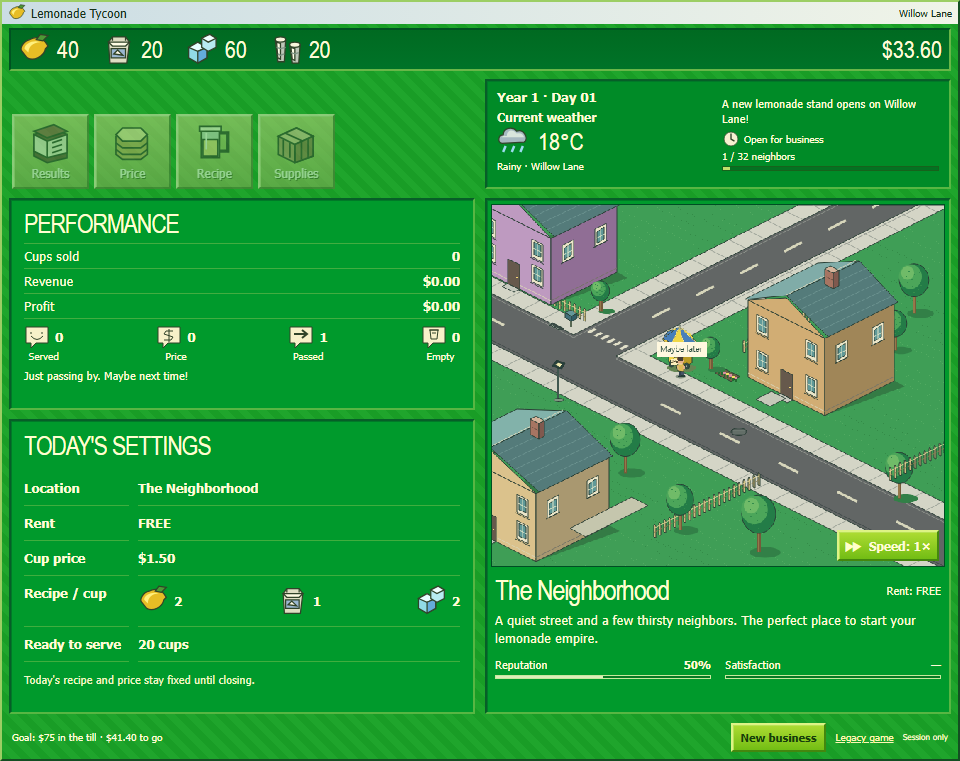
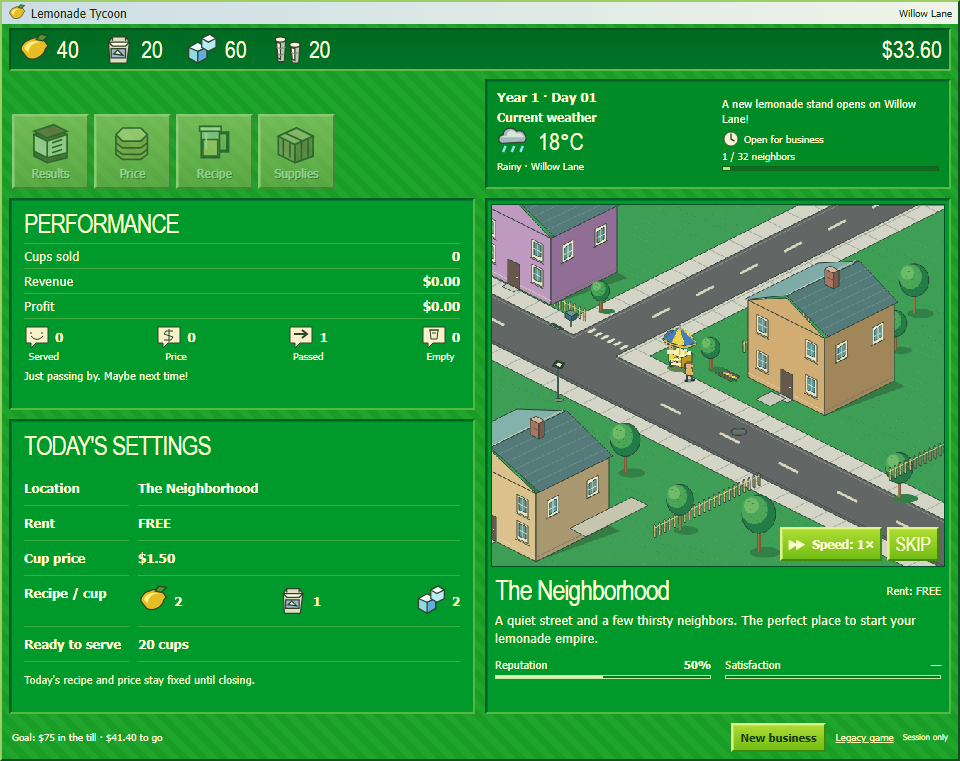
fix: address M2 audit gaps and add deterministic day skip (#104)

Changed region(s): [[0.8125, 0.6951, 0.9688, 0.7556], [0.6875, 0.4231, 0.75, 0.5138]]

diff --git a/docs/research/m2-reference-board.html b/docs/research/m2-reference-board.html
@@ -3,7 +3,7 @@
 <style>
 :root{font-family:system-ui,sans-serif;color:#e9f0dc;background:#183622}*{box-sizing:border-box}body{margin:0;padding:24px;max-width:1600px;margin-inline:auto}h1{font-size:26px;margin:0 0 8px}p{line-height:1.6}a{color:#f0d960}header{border-bottom:1px solid #61835d;padding-bottom:14px}nav{display:flex;gap:18px;flex-wrap:wrap;align-items:center;margin:18px 0}select,button{font:inherit;padding:8px;background:#e3e9ce;color:#1f3928;border:1px solid #88aa65}button:focus-visible,select:focus-visible{outline:3px solid #ffe26e}label{display:flex;align-items:center;gap:8px}.comparison{display:grid;grid-template-columns:1fr 1fr;gap:20px}.pane{min-width:0;background:#102919;padding:12px;border:1px solid #6c855d}.pane h2{font-size:17px;margin:0 0 10px}.frame{position:relative;width:100%}.frame img{display:block;width:100%;height:auto;image-rendering:pixelated}.bounds{position:absolute;inset:0;pointer-events:none}.box{position:absolute;border:2px solid #ffe24d;background:#ffd84d15;color:#fff;font:bold 10px monospace}.box span{background:#172616;padding:2px}.note{min-height:70px;color:#e3edb8}.small{font-size:12px;color:#b8c7ac}.facts{display:grid;grid-template-columns:repeat(3,1fr);gap:12px;margin:18px 0}.facts div{background:#254d30;padding:12px}.facts strong{display:block;color:#ffde63;font-size:23px}.sources{line-height:1.9}details{padding:12px;border:1px solid #628559;margin-top:15px}[hidden]{display:none!important}@media(max-width:800px){body{padding:12px}.comparison{grid-template-columns:1fr}.facts{grid-template-columns:1fr}}
 </style></head><body>
-<header><h1>M2 · 원작과 구현 화면 비교</h1><p>Windows 영어판 1.1.5 스크린샷을 기준으로, M2 구현과 구조를 비교합니다. <a href="m2-original-study.md">기본 조사</a> · <a href="m2-selling-weather-study.md">영업·날씨 후속 조사</a> · <a href="https://github.com/Gamez0/lemonade-tycoon/milestone/2">M2 마일스톤</a></p><p class="small">2026-09-29 · 이미지 12장 직접 확인. 플레이 영상은 발견했지만 재생 검증하지 못했습니다. 원작 실행·애니메이션 타이밍 측정 결과가 아닙니다.</p></header>
+<header><h1>M2 · 원작과 구현 화면 비교</h1><p>Windows 영어판 1.1.5 스크린샷을 기준으로, M2 구현과 구조를 비교합니다. <a href="m2-original-study.md">기본 조사</a> · <a href="m2-selling-weather-study.md">영업·날씨 후속 조사</a> · <a href="m2-acceptance-audit.md">M2 목표 재검토</a> · <a href="https://github.com/Gamez0/lemonade-tycoon/milestone/2">M2 마일스톤</a></p><p class="small">2026-09-29 · 이미지 12장 직접 확인. 플레이 영상은 발견했지만 재생 검증하지 못했습니다. 원작 실행·애니메이션 타이밍 측정 결과가 아닙니다.</p></header>
 <nav><label>원작 화면 <select id="screen"></select></label><label>구현 화면 <select id="current-screen"></select></label><label><input id="overlay" type="checkbox">영역 표시</label><button id="previous">이전</button><button id="next">다음</button></nav>
 <div class="comparison">
 <section class="pane"><h2 id="reference-title"></h2><div class="frame"><img id="reference" alt="선택한 원작 PC 게임 화면"><div class="bounds" id="bounds"></div></div><p id="reference-note" class="note"></p><a id="source" target="_blank" rel="noreferrer">원본 이미지 열기</a><p class="small" id="image-error" hidden>외부 이미지가 로드되지 않았습니다. 원본 링크를 이용해 주세요.</p></section>
@@ -17,7 +17,7 @@
 const screens=[
 [6,'R06 · 레시피','큰 그림·숫자·화살표로 조절합니다. 여러 준비 폼을 동시에 보여주지 않으며, 오른쪽 동네는 계속 유지됩니다.'],
 [7,'R07 · 재료 구매','재료별 하위 탭과 묶음별 수량, BUY/CANCEL이 보입니다. 실제 클릭 전후 상태 변화는 별도로 검증해야 합니다.'],
-[8,'R08 · 영업','왼쪽 Performance/Today\'s Settings, 흐려진 준비 탭, 장면 위의 배속/건너뛰기. 장소 설명은 아래에 남아 있습니다.'],
+[8,'R08 · 영업','왼쪽 Performance/Today\'s Settings, 흐려진 준비 탭, 장면 안의 배속/건너뛰기. 장소 설명은 아래에 남아 있습니다.'],
 [9,'R09 · 전날 결과','장부와 함께 만족도·놓친 판매·재료 손실을 보여줍니다. 하위 아이콘 탭으로 결과 종류를 구분합니다.'],
 [2,'R02 · 손익 장부','전날 결과 화면과 별도의 장부 화면입니다. 우측 주택가의 건물·카트·사람 크기도 함께 비교합니다.'],
 [3,'R03 · 공원 장소 선택','썸네일/화살표/임대 버튼. 장소 소개와 평가 막대가 오른쪽 장면 아래에 고정됩니다.'],
@@ -32,7 +32,7 @@ const captures=[
 ['m2-recipe.png','M2 · 레시피','컵 단위 조절과 고정 위치의 Start day. 준비 화면을 하나씩 표시합니다.'],
 ['m2-price.png','M2 · 가격','가격만 편집합니다. 원작 Marketing 전체 기능을 구현한 것은 아닙니다.'],
 ['m2-supplies.png','M2 · 구매 초안','BUY 전에는 재고/잔액이 바뀌지 않고 CANCEL로 전체 초안을 버립니다.'],
-['m2-selling.png','M2 · 영업','실적과 오늘 설정, 준비 잠금, 장면 옆 배속. 순차 손님 동작은 독자 구현입니다.'],
+['m2-selling.png','M2 · 영업','실적과 오늘 설정, 준비 잠금, 장면 안 배속/SKIP. 순차 손님 동작은 독자 구현입니다.'],
 ['m2-results.png','M2 · 하루 결과','매출, 사용 원가, 구매 지출, 현금 증감과 놓친 판매를 구분합니다.'],
 ['m2-ledger.png','M2 · 누적 장부','완료된 3일 합계. 다음 날 준비 중에도 다시 볼 수 있습니다.'],
 ['m2-rainy-selling.png','M2 · 비 오는 영업','날씨 표시와 장면 톤을 확인한 실제 렌더입니다. 초기 시드 1000을 브라우저 검증에서만 지정했으며 배포 기본값은 바꾸지 않았습니다.'],

diff --git a/src/reboot.ts b/src/reboot.ts
@@ -13,7 +13,7 @@ import {
     stepCustomer,
     unitCost,
 } from "./game/simulation/game";
-import type { State, Stock } from "./game/simulation/game";
+import type { CustomerEvent, State, Stock } from "./game/simulation/game";
 import { StreetScene } from "./game/presentation/street-scene";
 import { icon } from "./game/presentation/icons";
 import { markup } from "./game/presentation/layout";
@@ -76,28 +76,29 @@ for (const [i] of bundleSizes.entries()) {
     row.innerHTML = `<span id="bundle-label-${i}"></span><strong id="bundle-price-${i}"></strong><div class="spinner"><button data-bundle="${i}" data-delta="-1">−</button><output id="bundle-count-${i}">0</output><button data-bundle="${i}" data-delta="1">+</button></div>`;
     element("supplies").append(row);
 }
+function advanceCustomer(): CustomerEvent {
+    const step = stepCustomer(state);
+    state = step.state;
+    reactions[step.event.kind]++;
+    if (state.phase === "results") {
+        history.push(state);
+        currentPage = "results";
+        reportPage = "daily";
+    }
+    lastFeedback =
+        step.event.kind === "bought"
+            ? `Sold! Satisfaction: ${step.event.satisfaction}%.`
+            : step.event.kind === "price"
+              ? "Too expensive! A neighbor walked away."
+              : step.event.kind === "sold-out"
+                ? "Sold out! A customer left empty-handed."
+                : "Just passing by. Maybe next time!";
+    return step.event;
+}
 const scene = new StreetScene({
     state: () => state,
     profile: () => stepCustomer(state).event.profile,
-    arrive: () => {
-        const step = stepCustomer(state);
-        state = step.state;
-        reactions[step.event.kind]++;
-        if (state.phase === "results") {
-            history.push(state);
-            currentPage = "results";
-            reportPage = "daily";
-        }
-        lastFeedback =
-            step.event.kind === "bought"
-                ? `Sold! Satisfaction: ${step.event.satisfaction}%.`
-                : step.event.kind === "price"
-                  ? "Too expensive! A neighbor walked away."
-                  : step.event.kind === "sold-out"
-                    ? "Sold out! A customer left empty-handed."
-                    : "Just passing by. Maybe next time!";
-        return step.event;
-    },
+    arrive: advanceCustomer,
     changed: render,
 });
 new Phaser.Game({
@@ -217,6 +218,14 @@ element("speed").addEventListener("click", () => {
     scene.setSpeed(fast ? 4 : 1);
     text("speed-label", `Speed: ${fast ? 4 : 1}×`);
 });
+element("skip").addEventListener("click", () => {
+    if (state.phase !== "selling") return;
+    // The pending visit may already be committed. Resume from the actual state,
+    // not the animation's profile/elapsed time, to avoid charging it twice.
+    scene.resetDay();
+    while (state.phase === "selling") advanceCustomer();
+    act(() => state);
+});
 element("next").addEventListener("click", () => {
     if (scene.finishing) return;
     act(() => {
@@ -331,7 +340,8 @@ function render(): void {
     element("day-actions").hidden = !prep;
     element("next").hidden = !closed;
     element<HTMLButtonElement>("next").disabled = scene.finishing;
-    element("speed").hidden = !selling && !scene.finishing;
+    element("scene-controls").hidden = !selling && !scene.finishing;
+    element<HTMLButtonElement>("skip").disabled = !selling;
     element("closed-sign").hidden = !closed || scene.finishing;
     const satisfaction = prep
         ? history.length

diff --git a/src/game/presentation/layout.ts b/src/game/presentation/layout.ts
@@ -40,7 +40,7 @@ export const markup = `
   </section>
  </section>
  <section class="world-column" aria-label="Willow Lane stand">
-  <div class="world-frame"><div class="scene-window"><div id="game-container"></div><button id="speed" class="scene-speed" hidden><span aria-hidden="true">▶▶</span> <span id="speed-label">Speed: 1×</span></button><span id="closed-sign" hidden>DAY COMPLETE</span></div>
+  <div class="world-frame"><div class="scene-window"><div id="game-container"></div><div id="scene-controls" hidden><button id="speed" class="scene-speed"><span aria-hidden="true">▶▶</span> <span id="speed-label">Speed: 1×</span></button><button id="skip" class="scene-skip" title="Finish the remaining visits now">SKIP</button></div><span id="closed-sign" hidden>DAY COMPLETE</span></div>
    <div class="location-heading"><h2>The Neighborhood</h2><span class="rent-tag">Rent: FREE</span></div>
    <p class="location-description">A quiet street and a few thirsty neighbors. The perfect place to start your lemonade empire.</p>
    <div class="location-ratings"><div><div class="rating-line"><label for="reputation-meter">Reputation</label><strong id="reputation"></strong></div><meter id="reputation-meter" min="0" max="100" value="50">50%</meter></div><div><div class="rating-line"><label for="satisfaction-meter">Satisfaction</label><strong id="location-satisfaction"></strong></div><meter id="satisfaction-meter" min="0" max="100" value="0">No buyers yet</meter></div></div>

diff --git a/src/game/presentation/style.css b/src/game/presentation/style.css
@@ -495,10 +495,15 @@ canvas {
     display: block;
     image-rendering: pixelated;
 }
-.scene-speed {
+#scene-controls {
     position: absolute;
     right: 6px;
     bottom: 6px;
+    display: flex;
+    gap: 5px;
+}
+.scene-speed,
+.scene-skip {
     padding: 4px 6px;
     min-height: 31px;
     color: #fffbd7;
@@ -508,6 +513,12 @@ canvas {
     letter-spacing: -3px;
     padding-right: 6px;
     color: #ffffcb;
+}
+.scene-skip {
+    font:
+        19px "Arial Narrow",
+        "Trebuchet MS",
+        sans-serif;
 }
 #closed-sign {
     position: absolute;
@@ -757,12 +768,6 @@ a {
         width: 32px;
         height: 32px;
     }
-    .forecast {
-        grid-template-columns: 1fr;
-    }
-    .forecast-news {
-        display: none;
-    }
     .panel {
         padding: 8px;
     }
@@ -857,7 +862,7 @@ a {
         gap: 1px;
     }
     .panel {
-        min-height: 480px;
+        min-height: 516px;
         padding: 10px;
     }
     .recipe-row label span {

diff --git a/docs/research/m2-acceptance-audit.md b/docs/research/m2-acceptance-audit.md
@@ -1,0 +1,35 @@
+# M2 목표 자체 검토
+
+2026-09-29. 도로·날씨·영업 화면 보완(PR #102)을 먼저 완료하고, 사용자 요청에 따라 별도 검토를 수행했다. 검토 기준은 `m2-original-study.md` 8절이며, 단순히 구현 항목 수나 CI 통과로 합격시키지 않는다.
+
+## 판정
+
+**아직 M2 완료라고 선언하지 않는다.** 기능 검증과 화면 구조는 목표를 충족하는 방향이지만, 이번 재검토에서도 정보 누락 두 건과 원작 조작 누락 한 건을 찾았다. 이를 보완하고 다시 검증한다. 최종 시각 승인은 #97에 남겨둔다.
+
+| M2 완료 기준 | 확인 근거 | 판정 |
+| --- | --- | --- |
+| 준비·영업·결과를 원작과 같은 표시 폭으로 비교 | 레시피/가격/구매/영업/일일 결과/장부 캡처와 원작 선택 보드. 맑음·흐림·비 및 비 오는 영업 추가 | 자료 확보. 가격은 기준 판본 Marketing 전체와 다르므로 동일 화면이라고 표시하지 않음 |
+| 균등한 좌우 구조와 5:4 장면 | 데스크톱 960×761 앱, 좌우 50:50, 640×512 장면. 375/520/640/768/960/1280px 점검 | 데스크톱 기준 충족. 중간 폭 정보 누락은 이번 수정 대상 |
+| 실제 탭/구매/입력 보존/영업 잠금/다음 날 | 3일 회계 검증, 주문 초안·취소·잔액/저장 한도 실패, 잘못된 입력 복귀, 재시작 | 동작 확인. 모바일 행동 버튼 위치 차이 수정 |
+| 손님 그림·반응·동선 구분, 근거와 독자 구현 구분 | 걷기/가판대 앞/구매 후 컵 소지, 네 종류 반응, 실제 처리 건수와 반응 합계 검증 | M2 범위 확인. 원작 프레임·속도와 동일하다는 근거는 부족함 |
+| 반복 플레이와 예외 상태, 빌드/브라우저 검증 | 데스크톱/375px 각 3일, 무판매/품절/자금 부족/취소/리셋. 중간 폭/저장 한도/건너뛰기 회귀 검사 추가 | 최종 결과는 후속 PR에 기록 |
+| 사용자의 시각 승인 | 사용자가 추가 개선을 요청했으며 아직 승인하지 않음 | **미완료**, #97과 M2 유지 |
+
+## 이번 검토에서 찾은 문제와 조치
+
+1. **521~700px에서 뉴스와 하루 진행 정보가 사라짐.** 기존 미디어 쿼리가 전체 영역을 숨겼다. 예보의 양쪽 정보가 남도록 수정하고 375/520/640/768px에서 보이는지 검사한다.
+2. **375/520px 재료 탭에서 Start day가 약 22px 내려감.** 재료 목록이 패널 최소 높이를 넘었다. 다른 준비 탭과 같은 행동 위치를 확보하고 네 탭의 실제 버튼 좌표를 비교한다. 오류 메시지 때문에 필요한 확장은 허용한다.
+3. **원작에 보이는 SKIP 조작이 없었음.** 준비 경제나 대기열을 추가하지 않고도 M2에서 보완할 수 있는 조작이다. 이미 처리된 손님 이후의 현재 상태부터 남은 방문을 계산하고 결과로 넘어간다. 진행 중 애니메이션을 정리하므로 일반 종료의 마지막 퇴장 대기와 구분한다. 즉시 건너뛰기/한 명 이상 처리 후 건너뛰기를 정상 하루 계산과 대조한다.
+4. **저장 한도 초과의 브라우저 경로가 빠져 있었음.** 앞 재료의 구매가 가능해도 뒤 재료가 저장 한도를 넘으면 모든 구매가 취소되어야 한다. 얼음 900 보유 후 레몬 40+얼음 120 주문으로 확인한다. 원상태·잔액·초안 보존까지 검사한다.
+
+## 남은 차이를 숨기지 않음
+
+- **시각 승인 필요:** 제목 글꼴은 원작 폰트가 아니며 아이콘·집·나무는 새로 만든 그림이다. 구조/비율/조작을 가깝게 했어도 원작 특유의 질감까지 동일하다고 단정할 수 없다. 비교 보드로 사용자가 판단할 수 있게 남긴다.
+- **모션 근거 부족:** 두 번째 롱플레이도 페이지는 열렸지만 180초 탐색에서 readyState 1로 멈췄다. 연속 장면 관찰에 성공한 것이 아니다. 보행 속도·회전·음용 타이밍의 정확한 재현은 주장하지 않는다.
+- **명시적인 규칙 차이:** 현재 날씨는 하루 동안 고정이다. 실제로 계산하지 않는 시간별 기온 범위나 변화를 예보에 그려 넣지 않는다. 피처 생산, 녹는 얼음, 임대·광고·직원 비용도 현재 컵 단위 경제에 섞지 않는다.
+- **M3 범위:** 동시 보행/방문, 줄 서기, 서비스 용량, 오래 기다려 떠남은 사용자 지시에 따라 milestone 3 / #100에 둔다. 단일 손님 처리를 이 기능의 완료로 간주하지 않는다.
+- **후속 범위:** 저장/불러오기, 추가 장소와 경제 확장은 별도 로드맵에 남아 있다.
+
+## 확인 방법
+
+M2의 반려 항목을 문서로만 넘기지 않고 수정한다. 자동 검증 후 원작과 나란히 보는 보드를 다시 확인한다. 특히 영업 화면의 속도/SKIP, 현재 날씨, 실적/설정, 마지막 고객과 결과 화면 전환을 직접 본다. 자동 검증 통과는 기능 근거이며 시각 승인 자체는 아니다.

diff --git a/docs/reviews/103-m2-audit.md b/docs/reviews/103-m2-audit.md
@@ -1,0 +1,15 @@
+# M2 acceptance audit self-review
+
+PR #102 was completed and merged before this audit, as requested. The acceptance matrix is in `docs/research/m2-acceptance-audit.md`.
+
+Found and fixed two responsive omissions: 521-700px hid all news/progress, and narrow Supplies moved Start day down by about 22px. Added actual viewport/visibility/button-position checks for 375/520/640/768px and retained desktop equal-column/5:4 checks.
+
+A second review found that the original's visible SKIP operation could be implemented within M2 instead of leaving it absent. The shared customer transaction handler now supports both animated arrivals and resolving remaining visits. SKIP clears the animation and advances from the current immutable state, including any already committed in-flight visitor. It records one completed snapshot, updates reaction totals, and immediately enables next day. Ordinary day completion still waits for the last visitor's exit. Skip before any visit and after at least one transaction are compared with a normal deterministic day; cash, stock, revenue, costs, visitor totals and one-day ledger are checked, including delayed stale-animation effects.
+
+Also added storage overflow checkout in the browser: buy 900 ice, stage 40 lemon and 120 ice, reject the entire order, retain both stock/cash and the draft, then cancel it. Pure checkout guards already covered this; the UI path had not.
+
+No simulation constants or M3 concurrency/queue rules changed. M2 remains open: typography/artwork are original interpretations, original motion timing remains unverified, daily weather is fixed and user visual acceptance is pending. The second longplay attempt stalled after seeking and does not count as motion evidence.
+
+Check final local and CI results in the PR. Do not use a previous revision's green status to merge this audit branch.
+
+Final local result: strict typecheck and zero-warning lint pass, production build passes, and all 7 browser tests pass in 2.2 minutes. The two SKIP paths match the deterministic normal-day cash/stock/revenue/cost result and keep exactly one completed report. Medium-width and narrow-layout regressions and atomic storage overflow pass. Inspected updated selling/SKIP and 640px captures. CI on the current PR head remains the required merge gate.

diff --git a/docs/research/m2-selling-weather-study.md b/docs/research/m2-selling-weather-study.md
@@ -18,7 +18,7 @@
 | 날씨 | Sunny / 32°C라는 한 줄 텍스트. 준비와 영업이 똑같음 | 원작처럼 날짜, 날씨 그림/기온, 뉴스 분리. 준비는 Forecast, 영업은 Current weather. 현재 규칙은 하루 동안 고정 기온이므로 가짜 최저/최고 기온이나 시간별 예보를 만들지 않음 |
 | 영업 실적 | 웹 표처럼 금액과 긴 문장 위주 | 가는 구분선, 실적 수치, 그림과 숫자의 고객 반응, 짧은 현재 소식 |
 | 오늘 설정 | 가격/레시피/재고를 줄바꿈한 문자열 | 장소/임대/가격/컵당 레시피/남은 판매량을 구분된 행으로 구성. 레시피는 재료 그림과 수치 사용 |
-| 속도 | 장소 설명 아래의 독립 버튼 | 원작처럼 장면 안 오른쪽 아래. 속도 아이콘과 배수. SKIP은 원작에서 보이지만 현재는 마지막 손님 퇴장을 보장하는 기존 배속만 제공 |
+| 속도 | 장소 설명 아래의 독립 버튼 | 원작처럼 장면 안 오른쪽 아래. 속도 아이콘과 배수. 후속 목표 재검토에서 SKIP도 구현. 일반 종료는 마지막 손님 퇴장 대기, SKIP은 현재 상태부터 남은 방문을 즉시 계산 |
 | 장소 평가 | 큰 상태 줄, 진행 막대, 피드백으로 길어짐 | 장소 설명 아래 평판/구매자 만족도를 나란히 배치. 영업 진행 정보는 날씨/실적 쪽으로 이동 |
 | 글자와 여백 | 동일 표시 폭에서 제목·본문이 원작보다 작고, 남는 녹색 공간이 큼 | 제목·수치·본문 계층을 키우고 패널 높이/여백 재조정. 원작의 세로로 긴 제목 느낌 유지 |
 | 레시피/재료 | 길쭉한 웹 입력 행과 작은 더하기 버튼 | 더 큰 재료 그림, 방향성이 있는 화살표 조작, 작고 촘촘한 묶음 행 |

diff --git a/docs/art-assets.md b/docs/art-assets.md
@@ -19,7 +19,7 @@ Revised direction (2026-09-29, user playtest): restore old PC tycoon aesthetics 
 | Basic customer | Selling screenshot, small outlined figures | Visible demand | 20×34 px | walk 2 frames, wait/buy, leave with drink | P0 | Original sprite textures; stable profile through visit |
 | Lemonade | Selling screenshot, yellow supply cues | Sale readability | 3×4 px | held after purchase | P0 | Included in customer departure pose |
 | HUD | Top resource strip and green inset panels | Cash, stock, weather, phase | compact DOM | preparation/selling/results | P0 | Beveled controls, four switching tabs, ingredient +/- buttons; responsive narrow layout |
-| Inventory / control icons | Original ingredient and tab illustrations | Quick visual identification | 26×26 SVG | static | P0 | Eight original outlined icons in `icons.ts`, shared across controls and live inventory |
+| Inventory / control icons | Original ingredient and tab illustrations | Quick visual identification | 26×26 SVG | static | P0 | Shared original outlined icons in `icons.ts`, shared across controls and live inventory |
 | Houses / trees / bench | Neighborhood context | Environmental storytelling | varied | static | P1 | Included in neighborhood texture |
 | Customer variations | Small readable silhouettes | Diversity without visual noise | 20×34 px | three profiles, four poses each | P2 | Implemented |
 | Weather effects | Original weather indicator | Reinforce forecast | scene overlay | sunny/cloudy/rainy tint | P2 | Tint implemented; particles deferred |

diff --git a/README.md b/README.md
@@ -17,7 +17,7 @@ Open http://localhost:8080 for the reboot. The preserved earlier game is at http
 
 ## Playing
 
-Start with $40 and empty stock. In Supplies, select ingredients and add bundles to your order. BUY commits the whole order; CANCEL discards it. Cash and stock stay unchanged until checkout. Choose lemon/sugar/ice units per cup and set a price from $0.25 to $5.00. The forecast-fit hint helps tune the recipe. Open the stand to lock preparation and watch customers buy or pass. The speed button runs the day at 4x.
+Start with $40 and empty stock. In Supplies, select ingredients and add bundles to your order. BUY commits the whole order; CANCEL discards it. Cash and stock stay unchanged until checkout. Choose lemon/sugar/ice units per cup and set a price from $0.25 to $5.00. The forecast-fit hint helps tune the recipe. Open the stand to lock preparation and watch customers buy or pass. The speed button runs the day at 4x. SKIP resolves the remaining visits immediately using the same rules and opens the results.
 
 Results offers Last day and a cumulative Profit & loss ledger for completed days; it remains available during the next preparation. Reports distinguish profit (sales minus ingredients consumed) from cash change (sales minus supplies purchased). Leftover supplies, cash and reputation carry into the next day. Aim for $75 cash; play can continue afterward. Choose **New business** twice to reset; Escape or moving focus cancels confirmation.
 

diff --git a/docs/handoff.md b/docs/handoff.md
@@ -4,7 +4,7 @@ The user resumed the previous night's work. Reboot work lives in `.reboot-work/`
 
 ## Latest art revision
 
-Latest user steering: the road junction looked unnatural; investigate the selling screen and make M2 more closely resemble the original overall, including weather. Branch `feat/m2-weather-selling-refinement` addresses this feedback after PR #99. Read `docs/research/m2-selling-weather-study.md` and `docs/reviews/m2-visual-refinement.md`. M2 and #97 remain open pending visual acceptance.
+Latest user steering: finish the ongoing road/weather/selling work first, then separately audit whether M2 truly meets its goals. PR #102 is merged with green CI. Branch `fix/m2-acceptance-audit` follows up with medium-width forecast visibility, stable mobile action placement, working SKIP and additional storage/skip regression checks. Read `docs/research/m2-acceptance-audit.md` and consult the audit PR for its final checks/merge state. M2/#97 remain open for visual acceptance.
 
 The user explicitly placed simultaneous pedestrians/visitors, queues and waiting departures in M3. Milestone 3 and issue #100 track that work; do not implement it inside M2. Save/load and later roadmap milestones now follow M3.
 
